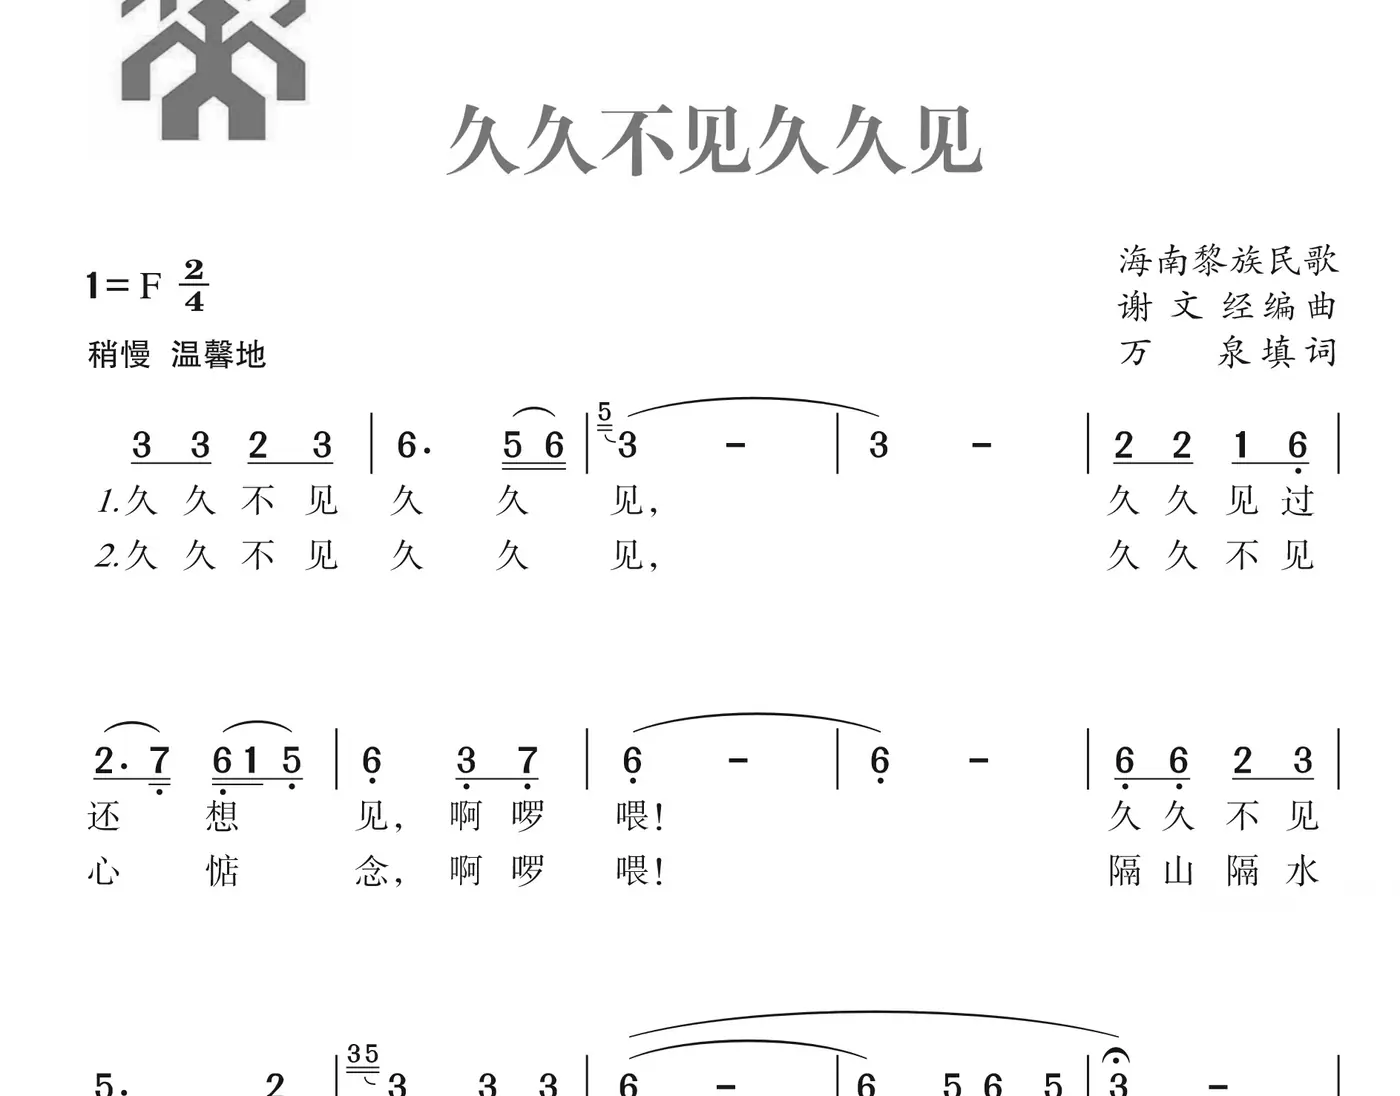
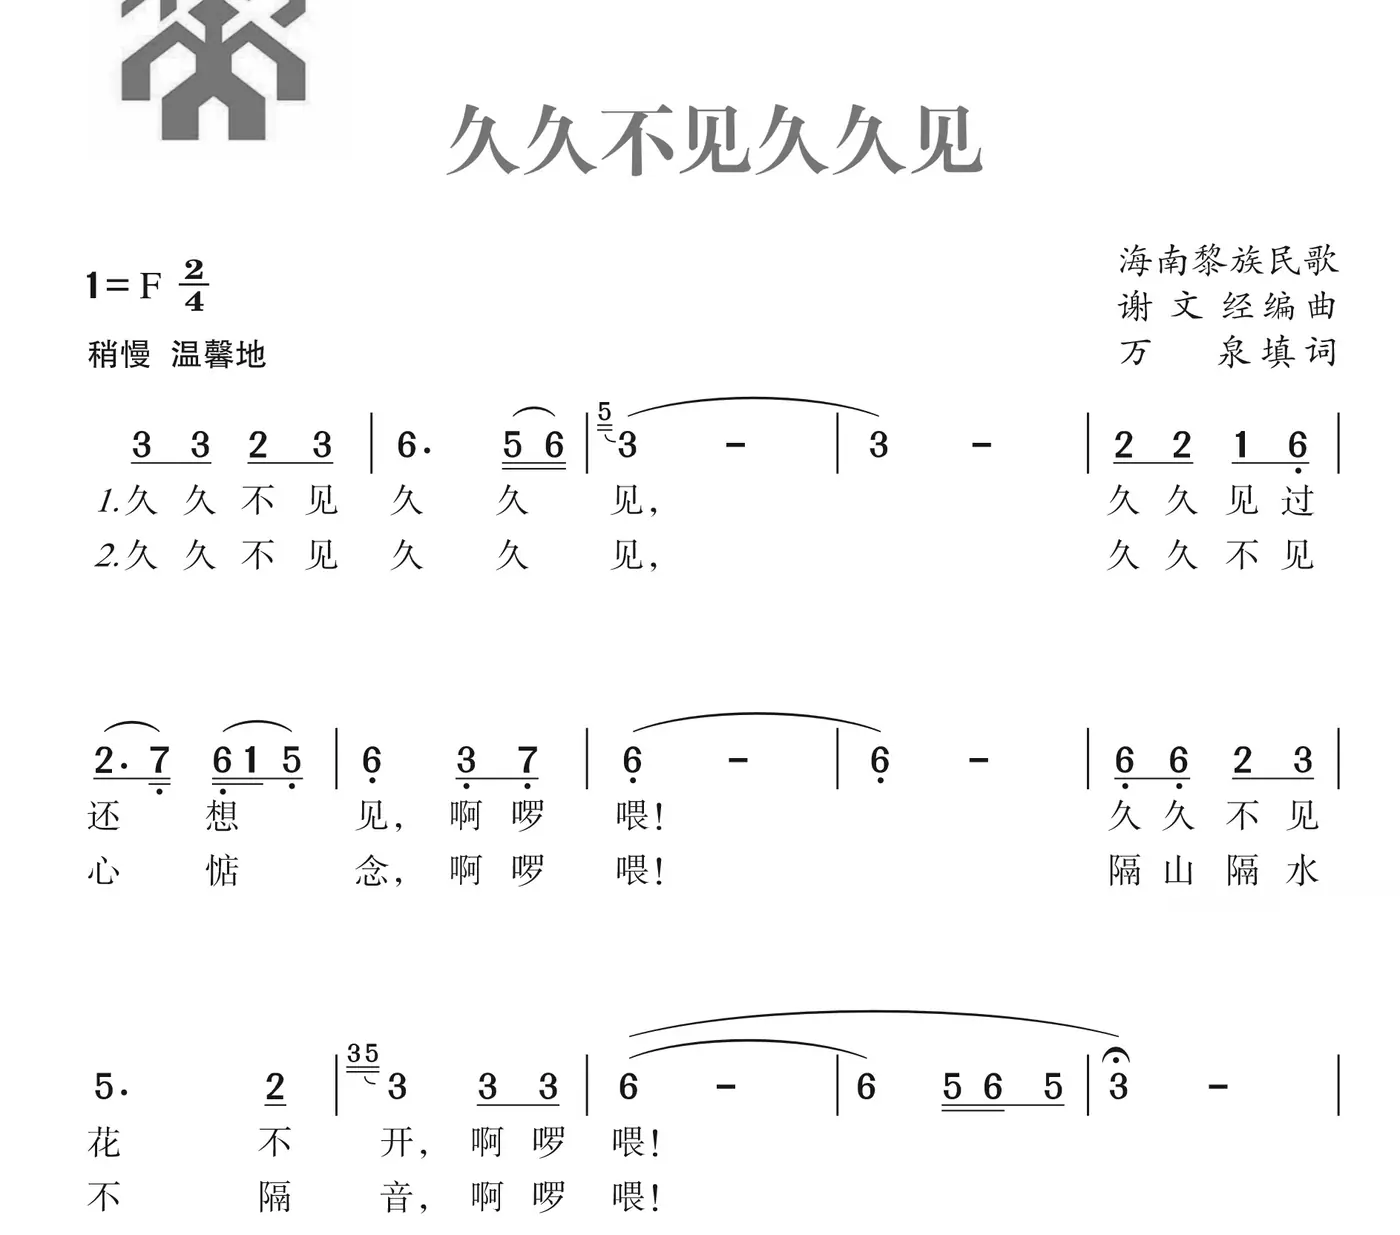
wip(xiangyi): 八下 melodies 1-19; fix 久久不见久久见 and 康定情歌 score boxes

diff --git a/app/lib/lesson/melodies-xy-g8s2.ts b/app/lib/lesson/melodies-xy-g8s2.ts
@@ -1,0 +1,213 @@
+// 湘艺版八年级下册：按教材原页谱例逐音转写，作为独立版本保存，不借用其他版本同名歌的旋律。
+import { segment } from "./jianpu";
+import type { Melody } from "./jianpu";
+
+const B = "八年级下册";
+const E = "湘艺版";
+const MELODIES: Record<string, Melody[]> = {
+  "《团结就是力量》": [
+    segment(B, 2, "1=C", "2/4", 112,
+      "1' - | 5 3./ 2// | 1 ~5 | 3 0 | 1' - | 5 3./ 2// | 1 ~6 | 5 0/ 3/ | 1' 6/ 5/ | 1' 0/ 3/ | 1' 6/ 5/ | 6 0/ 3/ |" +
+      " 1'. 6/ | 5 3 | 1'. 6/ | 1' 0 | 1' 5 | 3/ 6/ 5/ 3/ | 2. ~1/ | 3 0/ 5/ | 1'. 5/ | 6/ 1'/ 6/ 5/ | 3 3/ ~1/ | 6 - | 6 0 |" +
+      " 1'./ 1'// 5/ 5/ | 2./ 3// 5/ 5/ | 6. 5/ | 6 2' | 1' 6/ 5/ | 1' 6/ ~5/ | 3 - | 1' -",
+      "团 结 就 是 力 量 团 结 就 是 力 量 这 力 量 是 铁 这 力 量 是 钢 比 铁 还 硬 比 钢 还 强 " +
+      "向 着 法 西 斯 蒂 开 火 让 一 切 不 民 主 的 制 度 死 亡 向 着 太 阳 向 着 自 由 向 着 新 中 国 发 出 万 丈 光 芒",
+      { edition: E, note: "照录第2页全曲，反复只录一遍，直接接第二结尾；重音记号从略；“进行曲速度”未标数字速度，播放暂按112 BPM" }),
+  ],
+  "《咱们工人有力量》": [
+    segment(B, 3, "1=♭A", "2/4", 108,
+      "5/ 5 ~3/ | 1' 1' | 5. 6// ~5// | 3 9 | 5/ 3/ 1'/ 1'/ | 5/ 6// ~5// 3 | 2'/ 2' ~3'/ | 6/ ~5/ 6 | 1'. 3/ | 5 9 |" +
+      " 2'/ 3'/ 5/ 6/ | 1'/ 3/ 5 | 6/ 6 5/ | 1'./ 6// 5/ 6/ | 2'/ 2' 1'/ | 3'./ 2'// 1'/ 2'/ | 3'/ 3' 5'/ | 3'/ ~2'/ 3' |" +
+      " 3'/ 2'// 3'// 5/ 6/ | 1' 0/ 5/ | 3'. ~2'/ | 3'/ 3'// 2'// 3'/ 2'/ | 1'// 1'// 1'// 3// 5 | 3'/ 3'// 2'// 3'/ 2'/ | 1'/ 1'// ~3// 5",
+      "咱 们 工 人 有 力 量 嗨 咱 们 工 人 有 力 量 每 天 每 日 工 作 忙 嗨 每 天 每 日 工 作 忙 盖 成 了 高 楼 大 厦 " +
+      "修 起 了 铁 路 煤 矿 改 造 得 世 界 变 呀 么 变 了 样 哎 嗨 发 动 了 机 器 轰 隆 隆 地 响 举 起 了 铁 锤 响 叮 当",
+      { edition: E, note: "照录第3页，歌词录入第一段，反复只录一遍；（领）（齐）不分声部；“嗨”为喊声（X记为不定音高9）；“稍快 活泼、愉快地”未标数字速度，播放暂按108 BPM" }),
+  ],
+  "《到敌人后方去》": [
+    segment(B, 4, "1=F", "2/4", 112,
+      "0/ 5,/ | 3 3 | 3./ 4// 3./ 5// | 2 2 | 2./ 3// 2./ 5,// | 1 1 | 1./ 7,// 6,./ 5,// | 3 3 | 3./ 4// 5 | ~5 - |" +
+      " 5./ 5// 6./ ~5// | 3./ 2// 1/ 0/ | 5./ 5// 6./ ~5// | 3./ 2// 1/ 0/ | 5./ 5// 6/ 5// 3// | 1./ 2// 3/ 0/ | 2./ 2// 3/ 2// 1// | 7,./ 6,// 5,./ 5,// |" +
+      " 5. 6/ | 5 3 | 1./ 2// 3./ 5,// | 2. 2/ | 6 5 | 2./ 3// 1 | ~1 -",
+      "到 敌 人 后 方 去 把 鬼 子 赶 出 境 到 敌 人 后 方 去 把 鬼 子 赶 出 境 " +
+      "不 怕 雨 不 怕 风 包 后 路 出 奇 兵 今 天 攻 下 来 一 个 村 明 天 夺 回 来 一 座 城 叫 鬼 子 顾 西 不 顾 东 叫 鬼 子 军 力 不 集 中",
+      { edition: E, note: "照录第4页（书上以“……”截止，末音按两拍收住）；段落标记Ⅰ—Ⅲ从略；“进行速度 活泼跳跃地”未标数字速度，播放暂按112 BPM" }),
+  ],
+  "《中国人民解放军进行曲》": [
+    segment(B, 5, "1=C", "2/4", 116,
+      "1'./ 1'// 1'/ 1'/ | 1'/ 1'. | 1/ 1 3/ | 5/ 5 6/ | 1'. 6/ | 5. 0/ | 1/ 1 3/ | 6 5/ 3/ | 2 - | 2. 0/ |" +
+      " 1/ 1 3/ | 5/ 5 6/ | 1'. 6/ | 5. 0/ | 1/ 1// 3// 5/ 5/ | 6/ 6/ 5/ 3// 3// | 2 - | 1. 0/",
+      "",
+      { edition: E, note: "照录第5页音乐主题（书上以“……”截止）；延长记号从略；“进行曲速度 勇往直前地”未标数字速度，播放暂按116 BPM" }),
+  ],
+  "《小白杨》": [
+    segment(B, 8, "1=♭B", "2/4", 92,
+      "1'./ ~6// 5/ 5/ | 6// ~5// 3// ~2// 1 | 3./ 5// 1'// ~2'// 6// ~5// | 5 - | 1'.// ~2'/// 6// ~5// 6./ ~1'// | 6/ 5// ~6// 3 |" +
+      " 5/ 5// 6// 5// ~3// ~3// ~2// | 2 - | 3./ ~5// 5.// ~6/// ~5// ~3// | 2/ ~1/ 1/ 2/ | 3./ 5// 1'.// ~2'/// 6// ~5// | 6/ 6// ~5// 3 |" +
+      " 1'.// ~2'/// ~6// ~5// 6./ ~1'// | 6/ ~5// ~3// 2 | 5./ 6// 5// ~3// 2// ~3// | 2/ ~1. | 3'. 2'// 1'// | 2'. 3'/ |" +
+      " 3./ 5// 1'.// 2'/// 6// 5// | 5 - | 1'.// ~2'/// 6// ~5// 6./ ~1'// | 6/ 5// ~6// 3 | 5./ 6// 5// ~3// 3// ~2// | 2. ~3/ |" +
+      " 5// 5// 5// 6// 5// ~3// 2// ~3// | 1 - |" +
+      " 3'. 2'// 1'// | 2'. 3'/ | 3./ 5// 1'.// 2'/// 6// 5// | 5 - | 1'.// ~2'/// 6// ~5// 6./ ~1'// | 6/ 5// ~6// 3 |" +
+      " 5// 5// 5// 6// 5// ~3// 3// ~2// | 2. ~3/ | 2'. 3'/ | 5 6// ~1'// ~2'// ~6// | 1' - | ~1' - | ~1' - | ~1' - | ~1' 0",
+      "一 棵 呀 小 白 杨 长 在 哨 所 旁 根 儿 深 干 儿 壮 守 望 着 北 疆 微 风 吹 吹 得 绿 叶 沙 沙 响 啰 喂 " +
+      "太 阳 照 得 树 叶 闪 银 光 咪 咪 咪 咪 咪 咪 咪 咪 咪 咪 咪 咪 小 白 杨 小 白 杨 它 长 我 也 长 同 我 一 起 守 边 防 " +
+      "咪 咪 咪 咪 咪 咪 咪 咪 咪 咪 咪 咪 小 白 杨 小 白 杨 同 我 一 起 守 边 防 一 起 守 边 防",
+      { edition: E, note: "照录第8—9页，歌词录入第一段，反复后直接接结束句；倚音、波音从略；延长记号与渐慢从略；“中速稍快 温暖、自豪地”未标数字速度，播放暂按92 BPM" }),
+  ],
+  "《绣花》": [
+    segment(B, 10, "1=F", "2/4", 72,
+      "1/ 1 2// 3// | 5/ 5. | 6 6/ 5/ | 4/ 5// 6// 5// 4// 2/ | 1 - | 7,// 1// 2 3/ | 2// 1// 1. | 7,./ 1// 2./ 1// | 5, - |" +
+      " 1/ 1 2// 3// | 5/ 5. | 6 6/ 5/ | 4/ 5// 6// 5// 4// 3/ | 2 - | 5/ 1 2// 4// | 3/ 6,. | 7,./ 6,// 7,// 6,// 5,/ | 1 - |" +
+      " ~1 4/t 5/t 6/t | 5 - | ~5 4/t 5/t 4/t | 5 - | ~5 4/t 5/t 6/t | 1 - | ~1 7,/t 1/t 3/t | 5, - | ~5, 4/t 5/t 6/t | 5 - |" +
+      " ~5 4/t 5/t 4/t | 5 - | ~5 4/t 5/t 6/t | 1 - | ~1 7,/t 1/t 2/t | 1 - | ~1 0",
+      "",
+      { edition: E, title: "竖笛演奏", note: "照录第10页竖笛演奏谱（王酩《绣花》，全按作5）全曲；“稍慢”未标数字速度，播放暂按72 BPM" }),
+  ],
+  "《久久不见久久见》": [
+    segment(B, 12, "1=F", "2/4", 69,
+      "3/ 3/ 2/ 3/ | 6. 5// ~6// | 3 - | ~3 - | 2/ 2/ 1/ 6,/ | 2./ ~7,// 6,// ~1// ~5,/ | 6, 3,/ 7,/ | 6, - | ~6, - |" +
+      " 6,/ 6,/ 2/ 3/ | 5. 2/ | 3 3/ 3/ | 6 - | ~6 ~5// ~6// ~5/ | ~3 - |" +
+      " 2/ 1/ 6,/ 3,/ | 2./ ~7,// 6,// ~1// ~5,/ | 6, 3,/ 7,/ | 6, - | ~6, -",
+      "久 久 不 见 久 久 见 久 久 见 过 还 想 见 啊 啰 喂 久 久 不 见 花 不 开 啊 啰 喂 久 久 相 见 花 更 艳 啊 啰 喂",
+      { edition: E, note: "照录第12—13页，歌词录入第一段，接第一结尾；倚音与延长记号从略；“稍慢 温馨地”未标数字速度，播放暂按69 BPM" }),
+  ],
+  "《下四川》": [
+    segment(B, 14, "1=♭B", "2/4", 88,
+      "2 2// ~4// 2// ~4// | 2 5/ 6/ | 2' - | ~2' 3'/ ~2'/ | 1'/ ~6/ 2' | ~2' - | 3'/ ~2'/ 1'/ 1'// ~6// | 5 - | 6./ ~5// 4/ 2/ | 2 5/ ~6/ |" +
+      " 2' 1'/ 2'/ | 2'/ ~1'// ~6// 5/ 6// ~1'// | 6// ~5// ~6// ~5// ~4/ ~3// ~2// | 2 - | 1' 6// ~5// ~4// ~3// | 2 5/ ~6/ |" +
+      " 2' 1'/ 2'/ | 2'/ ~1'// ~6// 5/ 6// ~1'// | 6// ~5// ~6// ~5// ~4/ ~3// ~2// | 2 -",
+      "一 溜 儿 山 来 者 哟 噢 两 噢 噢 溜 儿 山 三 溜 儿 山 啊 脚 户 哥 下 了 者 四 川 噢 哟 哟 呀 脚 户 哥 下 了 者 四 川",
+      { edition: E, note: "照录第14页全曲；倚音从略；“中速”未标数字速度，播放暂按88 BPM" }),
+  ],
+  "《康定情歌》": [
+    segment(B, 15, "1=♭E", "2/4", 72,
+      "3/ 5/ 6/ 6// 5// | 6./ ~3// 2 | 3/ 5/ 6/ 6// 5// | 6/ 3. | 3/ 5/ 6/ 6// 5// | 6/ ~3/ 2 | 5/ 3/ 2// ~3// 2// 1// | 2/ 6,. |" +
+      " 6,/ 2. | 5/ ~3. | 2// ~1// ~6,. | 5/ 3/ 2// ~3// 2// 1// | 2/ 6,.",
+      "跑 马 溜 溜 的 山 上 一 朵 溜 溜 的 云 哟 端 端 溜 溜 的 照 在 康 定 溜 溜 的 城 哟 月 亮 弯 弯 康 定 溜 溜 的 城 哟",
+      { edition: E, note: "照录第15页，歌词录入第一段；“稍慢 饱满地”未标数字速度，播放暂按72 BPM" }),
+    segment(B, 41, "1=F", "2/4", 72,
+      "3/ 5/ 6/ 6// 5// | 6./ 3// 2 | 3/ 5/ 6/ 6// 5// | 6/ 3. | 3/ 5/ 6/ 6// 5// | 6/ 3/ 2 | 5/ 3/ 2// 3// 2// 1// | 2/ 6,. |" +
+      " 6,/ 2. | 5/ 3. | 2// 1// 6,. | 5/ 3/ 2// 3// 2// 1// | 2/ 6,.",
+      "",
+      { edition: E, title: "五线谱视唱", note: "照录第41页五线谱视唱（1）（F大调），按音高译为简谱；“稍慢”未标数字速度，播放暂按72 BPM" }),
+  ],
+  "《春江花月夜》": [
+    segment(B, 16, "1=G", "2/4", 66,
+      "6/ 6// 6// 1'/ 2'// 6// | 5 5./ 6// | 5/ 5/ 6/ 1'// 2'// | 3 - | 3/ 2// 3// 5/ 3// 5// | 6./ 1'// 2'./ 3'// |" +
+      " 1'/ 2'// 3'// 2'// 1'// 6/ | 5 5./ 1'// | 6// 1'// 2'/ 6// 1'// 5// 2// | 3 - | 3/ 6// 1'// 5// 6// 5// 3// | 2 - |" +
+      " 3./ 5// 6,// 5,// 6,// 1// | 2/ 3// 2// 1// 2// 3// 1// | 2 -",
+      "",
+      { edition: E, title: "音乐主题", note: "照录第16页民族管弦乐曲音乐主题（书上以“……”截止）；力度记号从略；未标速度，播放暂按66 BPM" }),
+    segment(B, 17, "1=C", "2/4", 66,
+      "6/ 6/ 1'/ ~2'// ~6// | 5 ~5./ ~6// | 5 6/ ~1'// ~2'// | 3 - | 3/ ~2// ~3// 5/ ~3// ~5// | 6./ ~1'// 2'./ ~3'// |" +
+      " 1'/ ~2'// ~3'// 2'// ~1'// ~6/ | 5. ~1'/ | 6/ 1'// ~2'// 6// ~1'// ~5/ | 3 - | 3/ ~6// ~1'// 5// ~6// ~5// ~3// | 2 - |" +
+      " 3/ 5// ~6// 6,// ~5,// 6,// ~1// | 2/ ~3// ~2// 1// ~2// ~3// ~1// | 2 -",
+      "春 江 潮 水 连 海 平 海 上 明 月 共 潮 生 滟 滟 随 波 千 万 里 何 处 春 江 无 月 明",
+      { edition: E, title: "歌曲《春江花月夜》", note: "照录第17页根据乐曲填词的歌曲，歌词录入第一段（〔唐〕张若虚词）；“从容、有韵味地”未标数字速度，播放暂按66 BPM" }),
+  ],
+  "《夜深沉》": [
+    segment(B, 18, "1=F", "1/4", 72,
+      "0/ 5/ | 1'.// 7/// 6// 5// | 6.// 7/// 6// 5// | 3// 6,// 3// 5// | 6// 1'// 5// 6// | 1'// 7// 6// 5// | 3./ 6,// |" +
+      " 3// 6,// 3// 5// | 6// 1'// 5// 6// | 1'/ 1'// 1'// | 3.// 3//// 3//// 3// 6,// | 3// 6,// 3// 5// | 6// 5// 6/ | 0/ 5/ |" +
+      " 1'/ 5/ | 6// 5// 6/ | 0/ 5/ | 6/ 5/ | 3.// 2/// 5// 5// | 3// 2// 1/// 2/// 3/// 5/// | 2.// 1/// 2// 3// |" +
+      " 5// 6/// 1'/// 6/// 5/// 3/// 5/// | 2// 3/// 5/// 2// 1// | 6,// 5// 6,// 1// | 2// 1// 2// 6/// 5/// | 3/// 5/// 6/// 1'/// 6/// 5/// 3/// 5/// |" +
+      " 2/// 1/// 3/// 5/// 2// 1// | 6,/// 7,/// 6,/// 1/// 6,/// 7,/// 6,/// 1/// | 2/// 1/// 6,/// 1/// 2/ | 0/ 1.// 1/// | 2// 3// 2/ | 0/ 1.// 1/// | 2// 3// 2/ |" +
+      " 0/ 1.// 1/// | 2/ 3/ | 2/ 1/ | 2/ 3/ | 2/ 1/ | 2// 3// 2// 1// | 2// 3// 2// 1// | 2/// 3/// 2/// 1/// 2/// 3/// 2/// 1/// |" +
+      " 2/// 3/// 2/// 1/// 2/// 3/// 2/// 1/// | 2/// 1/// 3/// 5/// 2/// 1/// 6,/// 1/// | 2// 2'// 2'/ | 7 | ~7 | ~7",
+      "",
+      { edition: E, note: "照录第18页京胡与民族乐队谱例；末尾三小节7为震音，按持续音录入；“中速稍慢 自由地”未标数字速度，播放暂按每四分音符72" }),
+  ],
+  "《都达尔和玛利亚》": [
+    segment(B, 19, "1=C", "2/4", 88,
+      "1./ 2// 3 | 4/ 5/ 4/ 3/ | 2 - | 3/ 2/ 3/ 4/ | 5 - | 1./ 2// 3 | 4/ 5/ 4/ 3/ | 2 - | 3/ 4/ 3/ 2/ | 1 - |" +
+      " 5 1' | 1'/ 2'/ 3'/ 2'/ | 2'/ 1'/ 7/ 6/ | 5 1' | 1'/ 2'/ 3'/ 2'/ | 1'/ 3'/ 2'/ 1'/ | 7/ 2'/ 1'/ 7/ | 6 - |" +
+      " 6/ 7/ 1'/ 7/ | 1'/ 6/ 5 | 5/ 6/ 6/ 5/ | 6/ 5/ 3./ 2// | 1/ 2/ 3 | 5./ 4// 4/ 3/ | 3/ 5/ 2/ 2/ | 1 -",
+      "",
+      { edition: E, title: "竖笛演奏（1）", note: "照录第19页竖笛二重奏（全按作1），前十小节齐奏，其后上方为第Ⅰ声部；连线从略；“中速”未标数字速度，播放暂按88 BPM",
+        voices: [{
+          label: "第Ⅱ声部",
+          notes: "0 0 | 0 0 | 0 0 | 0 0 | 0 0 | 0 0 | 0 0 | 0 0 | 0 0 | 0 0 |" +
+            " 5 - | 6/ 7/ 1'/ 7/ | 7/ 6/ 5/ 4/ | 3/ 4/ 5 | 6/ 7/ 1'/ 7/ | 6/ 1'/ 7/ 6/ | 5 6/ 5/ | 3/ 1/ 2/ 3/ |" +
+            " 4/ 5/ 6 | 1/ 2/ 3 | 3/ 4/ 4/ 3/ | 3/ 2/ 1 | 0 1/ 2/ | 3 6 | 5. 4/ | 3 -",
+          lyrics: "",
+        }] }),
+  ],
+  "《小黄鹂鸟》": [
+    segment(B, 20, "1=C", "2/4", 76,
+      "6/ 5// 6// 3/ 2/ | 1 - | 5/ 5// 6// 5/ 6/ | 1' - | 3'. 3'/ | 2' 3' | 1'/ 2'/ 1'/ 6/ | 5 - | 2'/ 2'// 2'// 2'/ 1'/ | 6/ 6// 6// 6/ 5/ |" +
+      " 6/ 1'/ 3/ 2/ | 1 - | 5. 6/ | 1' - | 1. 2/ | 3 6 | 5./ 6// 3/ 2/ | 1 - | ~1 -",
+      "",
+      { edition: E, title: "竖笛演奏（2）", note: "照录第20页竖笛二重奏（全按作1），上方为第Ⅰ声部；连线与保持音记号从略；“优美地”未标数字速度，播放暂按76 BPM",
+        voices: [{
+          label: "第Ⅱ声部",
+          notes: "0 0 | 6/ 5// 6// 3/ 2/ | 1 - | 5/ 5// 6// 5/ 6/ | 1' - | 0/ 5/ 1'/ 2'/ | 3'. 2'/ | 1'/ 2'/ 1'/ 6/ | 5 - | 2' 1' |" +
+            " 6 5 | 6/ 1'/ 3/ 2/ | 1 - | 3 5/ 6/ | 1' - | 1. 2/ | 3 6 | 5./ 6// 3/ 2/ | 1 -",
+          lyrics: "",
+        }] }),
+  ],
+  "《沂蒙山小调》": [
+    segment(B, 20, "1=G", "4/4", 80,
+      "2 5 3/ 2/ 3 | 5/ 3/ 2/ 1/ 2 - | 2 5 2 3/ 5/ | 3/ 2/ 1/ 6,/ 1 - | 1 3 2/ 3/ 5, | 2/ 7,/ 6,/ 5,/ 6, - | 1. 2/ 7,/ 6,/ 5,/ 3,/ | 5, - - -",
+      "",
+      { edition: E, note: "照录第20页（第65页练习重印同一谱例）；未标速度，播放暂按80 BPM" }),
+  ],
+  "《同一首歌》": [
+    segment(B, 22, "1=D", "4/4", 72,
+      "5, - 1 2 | 3. 4/ 3 1 | 2 1 6, - | 1 - - - | 5, - 1 2 | 3 3/ 4/ 5 1 | 4. 3/ 5 2/ ~3/ | 2 - - - |" +
+      " 3 - 5 1' | 7 - 6 - | 5 5/ 6/ 7 6/ ~5/ | 3 - - - | 4. 4/ 5 6 | 5 ~4/ ~3/ 2 - | 7, 7,/ 6,/ 5, ~6, | 1 - - - |" +
+      " 1' - 6 - | 4. 5/ 6 - | 7 7/ 7/ 7 ~6/ ~5/ | 3 - - - | 1' - 6 - | 4. 5/ 6 - | 6, 6,/ 6,/ 6 ~#4/ ~3/ | 2 - - - |" +
+      " 5, - 1 2 | 3. ~4/ 3 1/ 1/ | 2. 2/ 2 2/ 1/ | 6, 6, - - | 7, - 7, 6, | 5, ~6, 5 2/ 2/ | 4. 4/ 4 3/ 2/ | 1 - - - |" +
+      " 6 - - - | 1' - - 1' | 1' - - - | ~1' - - -",
+      "鲜 花 曾 告 诉 我 你 怎 样 走 过 大 地 知 道 你 心 中 的 每 一 个 角 落 甜 蜜 的 梦 啊 谁 都 不 会 错 过 " +
+      "终 于 迎 来 今 天 这 欢 聚 时 刻 星 光 洒 满 了 所 有 的 童 年 风 雨 走 遍 了 世 间 的 角 落 " +
+      "同 样 的 感 受 给 了 我 们 同 样 的 渴 望 同 样 的 欢 乐 给 了 我 们 同 一 首 歌 同 一 首 歌",
+      { edition: E, note: "照录第22—23页（简缩谱），歌词录入第一段；主歌反复与副歌反复各只录一遍，副歌直接接第二结尾与尾句；倚音从略；“深情地”未标数字速度，播放暂按72 BPM",
+        voices: [{
+          label: "低声部",
+          notes: "0 0 0 0 | 0 0 0 0 | 0 0 0 0 | 0 0 0 0 | 0 0 0 0 | 0 0 0 0 | 0 0 0 0 | 0 0 0 0 |" +
+            " 0 0 0 0 | 0 0 0 0 | 0 0 0 0 | 0 0 0 0 | 0 0 0 0 | 0 0 0 0 | 0 0 0 0 | 0 0 0 0 |" +
+            " 0 1 4 - | 6 - - 4/ 3/ | 2 - - 1/ 2/ | 3 5 - - | 0 1 4 - | 6 - - 6/ 5/ | 2 - - 2/ 3/ | 5 5 - - |" +
+            " 3 - - ~2 | ~1 - - - | 6 - - ~5 | ~4 - - - | 5 - - ~4 | ~2 - - - | 2 - - - | 3 - - - |" +
+            " 4 - - - | 3 - - 3 | 3 - - - | ~3 - - -",
+          lyrics: "星 光 洒 满 了 所 有 的 童 年 风 雨 走 遍 了 世 间 的 角 落 啊 啊 啊 啊 歌 同 一 首 歌",
+        }] }),
+  ],
+  "《泉水叮咚响》": [
+    segment(B, 24, "1=C", "2/4", 96,
+      "3/ 3// ~5// 6/ 5/ | 3/ 3// ~5// 6/ 5/ | 3/ 3// ~5// 1'/ 2'/ | 5 - | 1'/ 1'// 1'// 2'/ 1'/ | 6/ 6// 1'// 6/ 5/ | 5/ 1/ 5/ 3/ | 2 - |" +
+      " 3/ 3// 5// 3/ 2/ | 1/ 1// ~2// 3/ 5/ | 6/ 5// ~6// 1'/ 5/ | 1'/ ~6 ~1'/ | 5./ 6// 1'/ 2'/ | 6/ 6// ~1'// 6/ 5// ~3// | 5/ 1/ 3/ ~2/ | 1 -",
+      "泉 水 叮 咚 泉 水 叮 咚 泉 水 叮 咚 响 跳 下 了 山 冈 走 过 了 草 地 来 到 我 身 旁 " +
+      "泉 水 啊 泉 水 你 到 哪 里 你 到 哪 里 去 唱 着 歌 儿 弹 着 琴 弦 流 向 远 方",
+      { edition: E, note: "照录第24页（书上以“……”截止）；倚音、波音与顿音记号从略；“中速稍快”未标数字速度，播放暂按96 BPM" }),
+  ],
+  "《紫藤花》": [
+    segment(B, 26, "1=G", "2/4", 69,
+      "5,/ 6, ~5,/ | 3 - | 3/ 5 ~1// ~2// | 3 - | 2/ 3/ 3/ 1/ | 2/ 6, 1/ | 1/ ~5, ~6,// ~5,// | ~3, - | 5,/ 2/ 2/ ~1/ | 2. ~3/ | 5/ ~1/ 3./ 2// | 2 - |" +
+      " 6,/ 2/ 2./ ~3// | 2/ 6, 1/ | 7,/ ~5,. | ~5, 0 | 5/ ~3 3// ~5// | 6 - | 5/ 6/ ~6/ ~5// ~3// | 5 - | 3./ 6,// 6,/ 3/ | 5./ 3// 3// ~2// ~1/ | 2 - |" +
+      " ~2 0/ 5// 6// | 6/ 6// 5// 3/ 1// 7,// | 6,/ 3/ 0/ 2// 3// | 3/ 1/ 7,/ 6,// ~7,// | 5,/ 6,/ 0 | 0/ 1/ 7,/ ~6,/ | 6,/ 6, ~2/ | #4/ 4 3// ~2// | 5 - |" +
+      " ~5 3/ ~5// ~6// | 6. 5/ | 3 ~5,.// ~6,/// ~2// ~1// | 1 - | ~1 0",
+      "紫 藤 花 紫 藤 花 洁 白 绛 紫 美 如 云 霞 为 了 献 给 心 上 的 人 我 把 你 轻 轻 采 撷 " +
+      "紫 藤 花 紫 藤 花 我 们 常 坐 藤 萝 架 下 你 含 笑 听 那 真 情 的 话 语 浸 着 花 香 飘 向 天 涯 浸 着 花 香 飘 向 天 涯 飘 向 那 天 涯",
+      { edition: E, note: "照录第26页（涓生、子君轮唱的段落按一条旋律录入）；倚音从略；“中速稍慢”未标数字速度，播放暂按69 BPM" }),
+  ],
+  "《思念》": [
+    segment(B, 25, "1=F", "4/4", 66,
+      "5, 1 3. 2/ | 2 ~1 - - | 2 1 - 6,/ ~5,/ | 5, - - - | 5, 1 3 5 | 5 - 4 0 | 4 6, 4. 4/ | 3/ ~2/ 2 - - |" +
+      " 5, 1 3 - | 2 ~1 - - | 2 1 - 6,/ ~5,/ | 5, - - - | 3 3 3 5 | 5/ ~6 ~5/ 4. 4/ | 4 7, - 2/ ~1/ | 1 - - - |" +
+      " 1 4 6. 5/ | 5 ~4 - ~1/ ~6/ | 6/ ~5/ 5 - - | 5/ ~4/ 4 - ~4/ 3/ | 4/ 4/ 4/ 4/ 4 3 | 2. 2/ 3 4 | 6/ ~5 5/ ~5 - | ~5 - - -",
+      "你 从 哪 里 来 我 的 朋 友 好 像 一 只 蝴 蝶 飞 进 我 的 窗 口 不 知 能 做 几 日 停 留 " +
+      "我 们 已 经 分 别 得 太 久 太 久 你 从 哪 里 来 我 的 朋 友 你 好 像 一 只 蝴 蝶 飞 进 我 的 窗 口",
+      { edition: E, note: "照录第25页（书上以“……”截止）；倚音与渐强记号从略；“深情地”未标数字速度，播放暂按66 BPM" }),
+  ],
+  "《天边》": [
+    segment(B, 28, "1=F", "2/4", 66,
+      "1 2/ ~3/ | 5. ~6/ | 1/ 2// ~3// 6,/ ~2/ | 5, - | 3,./ ~5,// 5,/ 6,/ | 1/ 2// 3// 6/ ~5// ~2// | 2 - | ~2 - |" +
+      " 3./ ~5// 5/ ~6/ | 5. ~6/ | 6,/ 1/ 2/ ~3// ~5// | 3 - | 0/ 2/ 3/ 5/ | 6,/ 2 2// 3// | 1 - | ~1 - | 1/ 2/ 3/ ~1'/ | 6 - |" +
+      " 1/ 2/ 3/ ~6/ | 5 - | 5,/ ~6,/ 1/ 6/ | 5/ 1// 1// 3/ ~5/ | 2. ~3/ | ~2 - | 1/ 2/ 3/ ~1'/ | 6 - | 1/ 2/ 3/ ~6/ | 5 - |" +
+      " 5,/ ~6,/ 1/ 6/ | 5/ 1// 1// 3/ ~5/ | 2. ~3/ | ~5 - | ~5 5/ ~6/ | 1 - | ~1 -",
+      "天 边 有 一 对 双 星 那 是 我 梦 中 的 眼 睛 山 中 有 一 片 晨 雾 那 是 你 昨 夜 的 柔 情 我 要 登 上 " +
+      "登 上 山 顶 去 寻 觅 雾 中 的 身 影 我 要 跨 上 跨 上 骏 马 去 追 逐 遥 远 的 星 星 星 星",
+      { edition: E, note: "照录第28—29页简谱与五线谱对照谱，歌词录入第一段；波音从略；“中速稍慢”未标数字速度，播放暂按66 BPM" }),
+  ],
+};
+
+export default MELODIES;

diff --git a/app/lib/lesson/melodies.ts b/app/lib/lesson/melodies.ts
@@ -68,6 +68,7 @@ import XY_G3S2 from "./melodies-xy-g3s2";
 import XY_G7S1 from "./melodies-xy-g7s1";
 import XY_G7S2 from "./melodies-xy-g7s2";
 import XY_G8S1 from "./melodies-xy-g8s1";
+import XY_G8S2 from "./melodies-xy-g8s2";
 import { DRAFT_MELODIES } from "./melodies-draft";
 import { STAFF_KEYS } from "./staff-key-data";
 import { STAFF_PLACEMENT } from "./staff-placement-data";
@@ -100,7 +101,7 @@ const WX_PEP_BOOKS: Array<[string, Record<string, Melody[]>]> = ([
   ["wx-pep-g8s1", WX_PEP_G8S1], ["wx-pep-g8s2", WX_PEP_G8S2], ["wx-pep-g9s1", WX_PEP_G9S1],
 ] as Array<[string, Record<string, Melody[]>]>).map(([key, book]) => [key, pepKeys(book)]);
 // 湘艺版各册自己的转写，同样按版本分开存放，键去掉《》。
-const XY_BOOKS: Array<[string, Record<string, Melody[]>]> = ([["xy-g1s1", XY_G1S1], ["xy-g1s2", XY_G1S2], ["xy-g2s1", XY_G2S1], ["xy-g2s2", XY_G2S2], ["xy-g3s1", XY_G3S1], ["xy-g3s2", XY_G3S2], ["xy-g7s1", XY_G7S1], ["xy-g7s2", XY_G7S2], ["xy-g8s1", XY_G8S1]] as Array<[string, Record<string, Melody[]>]>).map(([key, book]) => [key, pepKeys(book)]);
+const XY_BOOKS: Array<[string, Record<string, Melody[]>]> = ([["xy-g1s1", XY_G1S1], ["xy-g1s2", XY_G1S2], ["xy-g2s1", XY_G2S1], ["xy-g2s2", XY_G2S2], ["xy-g3s1", XY_G3S1], ["xy-g3s2", XY_G3S2], ["xy-g7s1", XY_G7S1], ["xy-g7s2", XY_G7S2], ["xy-g8s1", XY_G8S1], ["xy-g8s2", XY_G8S2]] as Array<[string, Record<string, Melody[]>]>).map(([key, book]) => [key, pepKeys(book)]);
 const GRADE_LABELS: Record<string, string> = { "1": "一年级", "2": "二年级", "3": "三年级", "4": "四年级", "5": "五年级", "6": "六年级", "7": "七年级", "8": "八年级", "9": "九年级" };
 export const PEP_MELODY_BOOKS = PEP_BOOKS.map(([key]) => {
   const match = key.match(/^pep-g(\d+)s([12])$/);
